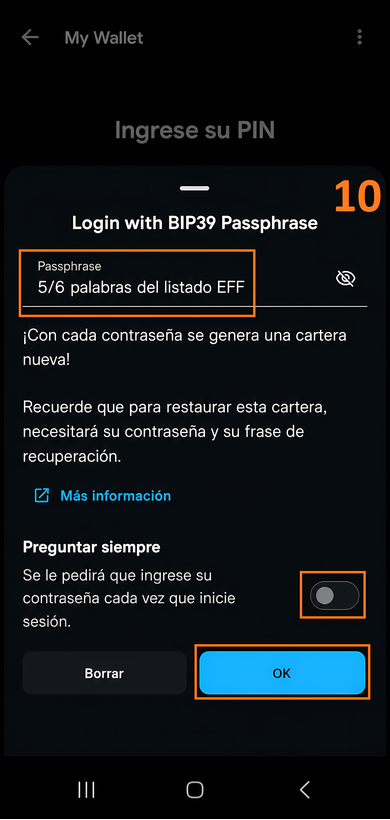
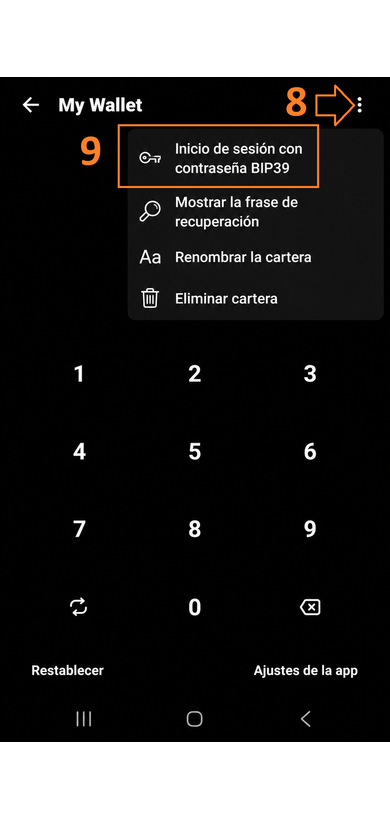
feat: agregar paso faltante menu tres puntos BIP39 (11 pasos total)

diff --git a/index.html b/index.html
@@ -3038,24 +3038,31 @@ const SECTIONS = [
       },
       {
         f: 'mob-green-07.png', imgW: 370,
-        es: 'Tocá tu wallet - luego los tres puntos (⋯)',
-        en: 'Tap your wallet - then the three dots (⋯)',
-        des: `Tocá <strong>My Wallet</strong> en la lista. Cuando aparezca la pantalla de PIN, <strong>no ingreses el PIN todavía</strong>.<br><br>
-        Tocá los <strong>tres puntos (⋯)</strong> en la esquina superior derecha para ver más opciones.`,
-        den: `Tap <strong>My Wallet</strong> in the list. When the PIN screen appears, <strong>do not enter your PIN yet</strong>.<br><br>
-        Tap the <strong>three dots (⋯)</strong> in the top right corner to see more options.`
+        es: 'Tocá tu wallet para volver a entrar',
+        en: 'Tap your wallet to log back in',
+        des: `Tocá <strong>My Wallet</strong> en la lista. Aparece la pantalla de PIN — <strong>no ingreses el PIN todavía</strong>.<br><br>
+        Tocá los <strong>tres puntos (⋯)</strong> en la esquina superior derecha.`,
+        den: `Tap <strong>My Wallet</strong> in the list. The PIN screen appears — <strong>do not enter your PIN yet</strong>.<br><br>
+        Tap the <strong>three dots (⋯)</strong> in the top right corner.`
       },
       {
         f: 'mob-green-08.png', imgW: 370,
-        es: 'Seleccioná "Login with BIP39 Passphrase" e ingresá tu passphrase',
-        en: 'Select "Login with BIP39 Passphrase" and enter your passphrase',
-        des: `En el menú de opciones tocá <strong>Login with BIP39 Passphrase</strong>. Ingresá tu passphrase en el campo y tocá <strong>OK</strong>.<br><br>
-        Podés activar <strong>Preguntar siempre</strong> para que la solicite en cada inicio de sesión. Luego ingresá tu PIN para abrir la wallet.`,
-        den: `In the options menu tap <strong>Login with BIP39 Passphrase</strong>. Enter your passphrase in the field and tap <strong>OK</strong>.<br><br>
-        You can enable <strong>Always Ask</strong> to prompt for it on every login. Then enter your PIN to open the wallet.`
+        es: 'Tocá "Inicio de sesión con contraseña BIP39"',
+        en: 'Tap "Login with BIP39 Passphrase"',
+        des: `Se abre el menú con las opciones de la wallet. Tocá <strong>Inicio de sesión con contraseña BIP39</strong>.`,
+        den: `A menu with wallet options opens. Tap <strong>Login with BIP39 Passphrase</strong>.`
       },
       {
         f: 'mob-green-09.png', imgW: 370,
+        es: 'Ingresá tu passphrase y tocá OK',
+        en: 'Enter your passphrase and tap OK',
+        des: `Ingresá tu passphrase en el campo y tocá <strong>OK</strong>.<br><br>
+        Podés activar <strong>Preguntar siempre</strong> para que la solicite en cada inicio de sesión. Luego ingresá tu PIN para abrir la wallet.`,
+        den: `Enter your passphrase in the field and tap <strong>OK</strong>.<br><br>
+        You can enable <strong>Always Ask</strong> to prompt for it on every login. Then enter your PIN to open the wallet.`
+      },
+      {
+        f: 'mob-green-10.png', imgW: 370,
         es: 'Nueva billetera protegida por passphrase',
         en: 'New passphrase-protected wallet',
         des: `La billetera muestra el banner <strong>"Protegido por contraseña"</strong>. Es una billetera completamente nueva derivada de tu semilla + passphrase.<br><br>
@@ -3064,7 +3071,7 @@ const SECTIONS = [
         <strong>Important:</strong> you need both the original seed and the passphrase to access these funds in the future.`
       },
       {
-        f: 'mob-green-10.png', imgW: 370,
+        f: 'mob-green-11.png', imgW: 370,
         es: 'Ambas billeteras en la lista',
         en: 'Both wallets in the list',
         des: `En <strong>My Wallets</strong> aparecen dos entradas: <strong>Mobile Wallet</strong> (sin passphrase) y <strong>BIP39 #1</strong> (con passphrase).<br><br>
